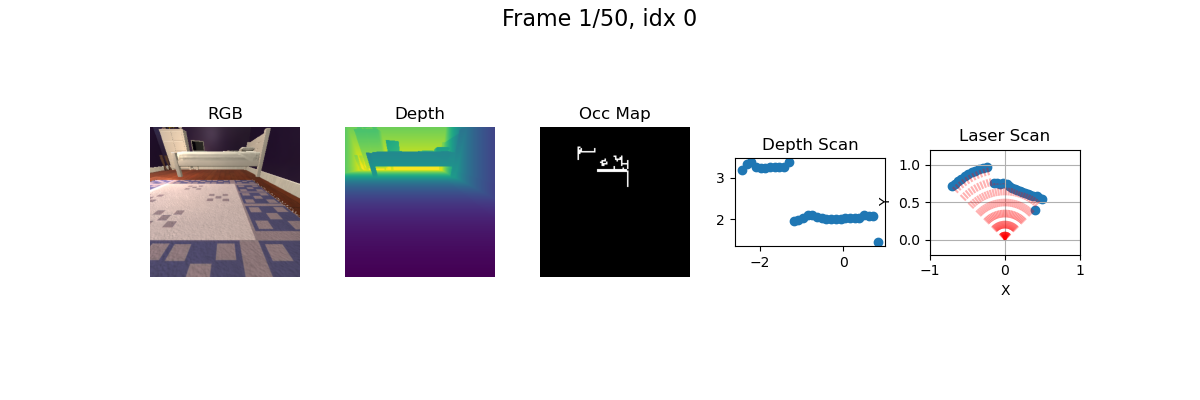
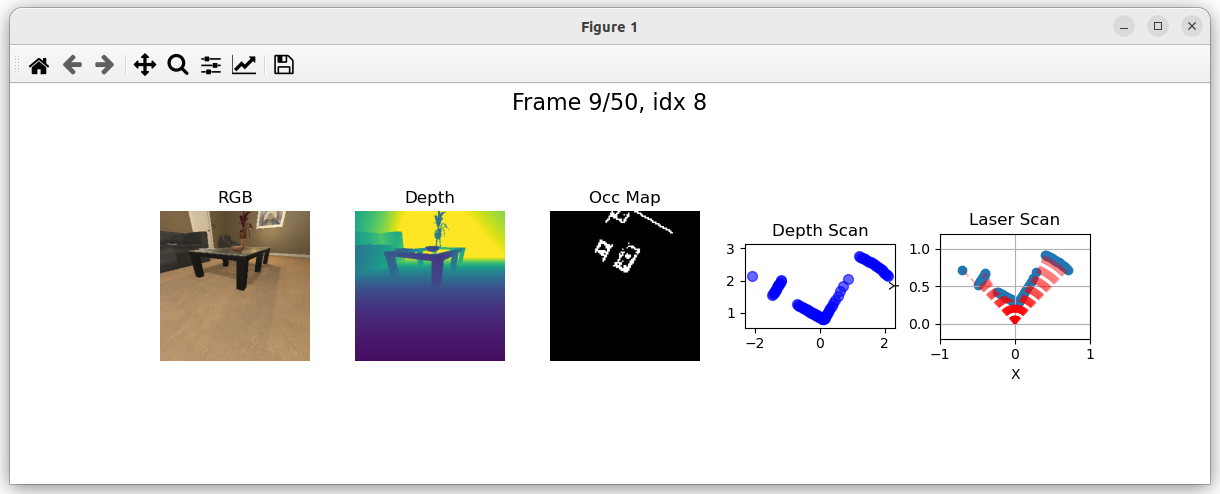
dev: add depth_layer_scan_api

diff --git a/depth_transform.py b/depth_transform.py
@@ -35,7 +35,7 @@ class Config:
         self.laserscan_cfg = laserscan_cfg or {
             "aggregation": 'mean',  # 'mean', 'max', 'min', 'all'
             "n_intervals": 30,  # 深度扫描的区间数
-            "default_value": 10,  # 空区间的默认值
+            "default_value": 3,  # 空区间的默认值
         }
 
     @classmethod
@@ -226,8 +226,11 @@ def depth_to_filted_pointcloud(depth,
     
     return pts, color
 
-def map_array_to_intervals(arr_key, arr_val, min_val, max_val, n_intervals, 
-                                  default_value=100, aggregation='min'):
+def map_pts_to_intervals(pts, 
+                         fov_deg=[90.0, 90.0],
+                         n_intervals=30, 
+                         default_value=3.0, 
+                         aggregation='min'):
     """
     高级版本：支持多种聚合方法
     
@@ -237,52 +240,96 @@ def map_array_to_intervals(arr_key, arr_val, min_val, max_val, n_intervals,
         聚合方法: 'first', 'last', 'mean', 'median', 'sum', 'count', 'all', 'min'
     """
     
-    boundaries = np.linspace(min_val, max_val, n_intervals + 1)
-    result_values = []
-    intervals = []
     
+
+    # x = pts[:, 0][pts[:, 0] < 0]  # 只考虑X<0的点
+    # y = pts[:, 2][pts[:, 0] < 0]  # 对应的Y值
+    # angles = np.atan2(np.abs(y), x)  # 计算每个点的角度
+    # print("y:", y)
+    # print("x:", x)
+    # print("angles x<0:", angles)
+    # print("max_angle:", np.rad2deg(np.max(angles)), "min_angle:", np.rad2deg(np.min(angles)))
+    # x = pts[:, 0][pts[:, 0] > 0]  # 只考虑X<0的点
+    # y = pts[:, 2][pts[:, 0] > 0]  # 对应的Y值
+    # angles = np.atan2(np.abs(y), x)  # 计算每个点的角度
+    # print("y:", y)
+    # print("x:", x)
+    # print("angles x>0:", angles)
+    # print("max_angle:", np.rad2deg(np.max(angles)), "min_angle:", np.rad2deg(np.min(angles)))
+    angle = np.atan2(np.abs(pts[:, 2]), pts[:, 0])  # 计算每个点的角度，弧度
+    angle_boundaries = np.linspace(np.deg2rad(fov_deg[0] / 2), np.deg2rad(fov_deg[0]*1.5), n_intervals + 1)
+    angle_intervals, dist_intervals = [], []
     for i in range(n_intervals):
-        start = boundaries[i]
-        end = boundaries[i + 1]
-        intervals.append((start, end))
-        
+        start = angle_boundaries[i]
+        end = angle_boundaries[i + 1]
+        angle_intervals.append([start, end])
         if i == n_intervals - 1:
-            mask = (arr_key >= start) & (arr_key <= end)
+            mask = (angle >= start) & (angle <= end)
         else:
-            mask = (arr_key >= start) & (arr_key < end)
-        
-        values_in_interval = arr_val[mask]
-        
-        if len(values_in_interval) > 0:
-            if aggregation == 'first':
-                result_values.append(values_in_interval[0])
-            elif aggregation == 'last':
-                result_values.append(values_in_interval[-1])
+            mask = (angle >= start) & (angle < end)
+        pts_in_interval = pts[mask]
+        if len(pts_in_interval) > 0:
+            if aggregation == 'min':
+                dist_intervals.append(np.min(np.sqrt(pts_in_interval[:, 0]**2 + pts_in_interval[:, 2]**2)))
+            elif aggregation == 'max':
+                dist_intervals.append(np.max(np.sqrt(pts_in_interval[:, 0]**2 + pts_in_interval[:, 2]**2)))
             elif aggregation == 'mean':
-                result_values.append(np.mean(values_in_interval))
-            elif aggregation == 'median':
-                result_values.append(np.median(values_in_interval))
-            elif aggregation == 'sum':
-                result_values.append(np.sum(values_in_interval))
-            elif aggregation == 'count':
-                result_values.append(len(values_in_interval))
-            elif aggregation == 'all':
-                result_values.append(values_in_interval.tolist())
-            elif aggregation == 'min':
-                print(f"Using min aggregation for interval {i}: {start} to {end}")
-                result_values.append(np.min(values_in_interval))
+                dist_intervals.append(np.mean(np.sqrt(pts_in_interval[:, 0]**2 + pts_in_interval[:, 2]**2)))
             else:
                 raise ValueError(f"Unsupported aggregation method: {aggregation}")
         else:
-            if aggregation == 'all':
-                result_values.append([])
-            else:
-                result_values.append(default_value)
+            dist_intervals.append(default_value)
+    return np.array(angle_intervals), np.array(dist_intervals)
     
-    if aggregation == 'all':
-        return intervals, result_values
-    else:
-        return intervals, np.array(result_values)
+    
+    # min_x = np.min(pts[:, 0])
+    # max_x = np.max(pts[:, 0])
+
+    # boundaries = np.linspace(min_x, max_x, n_intervals + 1)
+    # result_values = []
+    # intervals = []
+    # for i in range(n_intervals):
+    #     start = boundaries[i]
+    #     end = boundaries[i + 1]
+    #     intervals.append((start, end))
+        
+    #     if i == n_intervals - 1:
+    #         mask = (pts[:, 0] >= start) & (pts[:, 0] <= end)
+    #     else:
+    #         mask = (pts[:, 0] >= start) & (pts[:, 0] < end)
+        
+    #     values_in_interval = pts[:, 2][mask]
+        
+    #     if len(values_in_interval) > 0:
+    #         if aggregation == 'first':
+    #             result_values.append(values_in_interval[0])
+    #         elif aggregation == 'last':
+    #             result_values.append(values_in_interval[-1])
+    #         elif aggregation == 'mean':
+    #             result_values.append(np.mean(values_in_interval))
+    #         elif aggregation == 'median':
+    #             result_values.append(np.median(values_in_interval))
+    #         elif aggregation == 'sum':
+    #             result_values.append(np.sum(values_in_interval))
+    #         elif aggregation == 'count':
+    #             result_values.append(len(values_in_interval))
+    #         elif aggregation == 'all':
+    #             result_values.append(values_in_interval.tolist())
+    #         elif aggregation == 'min':
+    #             print(f"Using min aggregation for interval {i}: {start} to {end}")
+    #             result_values.append(np.min(values_in_interval))
+    #         else:
+    #             raise ValueError(f"Unsupported aggregation method: {aggregation}")
+    #     else:
+    #         if aggregation == 'all':
+    #             result_values.append([])
+    #         else:
+    #             result_values.append(default_value)
+    
+    # if aggregation == 'all':
+    #     return intervals, result_values
+    # else:
+    #     return intervals, np.array(result_values)
 
 def depth_layer_scan(depth,
                     rgb=None,
@@ -297,31 +344,39 @@ def depth_layer_scan(depth,
                                         cfg=cfg)
     if pts.shape[0] == 0: # 过滤后点云为空，则直接返回None
         return None, None
-    min_x = np.min(pts[:, 0])
-    max_x = np.max(pts[:, 0])
+    # min_x = np.min(pts[:, 0])
+    # max_x = np.max(pts[:, 0])
     # print(f"Depth scan range: X [{min_x:.2f}, {max_x:.2f}]")
     # min_y = np.min(pts[:, 1])
     # max_y = np.max(pts[:, 1])
     # print(f"Depth scan range: Y [{min_y:.2f}, {max_y:.2f}]")
-    intervals, y_corrd = map_array_to_intervals(
-                            arr_key=pts[:, 0], 
-                            arr_val=pts[:, 2], 
-                            min_val=min_x, 
-                            max_val=max_x, 
-                            n_intervals=cfg.laserscan_cfg['n_intervals'], 
-                            default_value=cfg.laserscan_cfg['default_value'], 
+    # intervals, y_coord = map_pts_to_intervals(
+    #                         pts,
+    #                         fov_deg=cfg.sensor_cfg['fov_deg'],
+    #                         n_intervals=cfg.laserscan_cfg['n_intervals'], 
+    #                         default_value=cfg.laserscan_cfg['default_value'], 
+    #                         aggregation=cfg.laserscan_cfg['aggregation']
+    #                     )
+    # start = np.array([interval[0] for interval in intervals])
+    # end = np.array([interval[1] for interval in intervals])
+    # x_coord = (start + end) / 2.0  # 中心点
+    # y_coord = np.abs(y_coord)  # 取绝对值
+    # return x_coord, y_coord, _, _
+    angles_intervals, dist = map_pts_to_intervals(
+                            pts,    
+                            fov_deg=cfg.sensor_cfg['fov_deg'],
+                            n_intervals=cfg.laserscan_cfg['n_intervals'],
+                            default_value=cfg.laserscan_cfg['default_value'],
                             aggregation=cfg.laserscan_cfg['aggregation']
                         )
-    start = np.array([interval[0] for interval in intervals])
-    end = np.array([interval[1] for interval in intervals])
-    x_coord = (start + end) / 2.0  # 中心点
+    angles = (angles_intervals[:, 0] + angles_intervals[:, 1]) / 2.0
+    dist[dist > cfg.laserscan_cfg['default_value']] = cfg.laserscan_cfg['default_value']  # 限制最大距离
+    x_coord = dist * np.cos(angles)  # X坐标
+    y_coord = dist * np.sin(angles)  # Y坐标
     # print(f"x_coord: {x_coord}")
-    y_corrd = np.abs(y_corrd)
-    # y_corrd[y_corrd > cfg.laserscan_cfg['default_value']] = cfg.laserscan_cfg['default_value']  
-    # print(f"Depth scan intervals: {intervals}")
-    # print(f"Depth scan values: {dists}")
-
-    return x_coord, y_corrd
+    # print(f"y_coord: {y_coord}")
+    return x_coord, y_coord, angles, dist
+    
 
 def depth_layer_scan_api(depth,
                          rgb=None,
@@ -330,7 +385,7 @@ def depth_layer_scan_api(depth,
                          dist_scale=1.0,
                          rotate_points=[['x', -30]],
                          filter_points=[['y', -0.25, 0.25]],
-                         aggregation='mean',
+                         aggregation='min',
                          n_intervals=30,
                          default_value=3.0):
     """ 深度图投影到激光扫描 - API接口
@@ -339,26 +394,24 @@ def depth_layer_scan_api(depth,
         rgb: HxWx3 RGB图像 (可选)
         height: 相机高度，用于地面过滤 (可选)
         n_intervals: 深度扫描的区间数 (默认 30)
-        default_value: 空区间的默认值 (默认 10) 
+        default_value: 空区间的默认值 (默认 3) 
     returns:
         angles: 激光扫描角度 (n_intervals,) ndarray
         dists: 激光扫描距离 (n_intervals,) ndarray
     """
-    angles = np.linspace(fov_deg[0]/2, -fov_deg[0]/2, n_intervals)
+    # angles = np.linspace(fov_deg[0]/2, -fov_deg[0]/2, n_intervals)
     cfg = Config(
         corrdinate_system='opengl',
         sensor_cfg={"fov_deg": fov_deg, "dist_scale": dist_scale},
         transform_cfg={"rotate_points": rotate_points, "filter_points": filter_points},
         laserscan_cfg={"aggregation": aggregation, "n_intervals": n_intervals, "default_value": default_value}
     )
-    x, y = depth_layer_scan(depth, rgb=rgb, height=height, cfg=cfg)
+    x, y, angles, dist = depth_layer_scan(depth, rgb=rgb, height=height, cfg=cfg)
     if x is not None and y is not None:
-        dist = np.sqrt(x**2 + y**2)
-        dist[dist > default_value] = default_value  # 限制最大距离
         dist = dist / default_value # 归一化距离
     else: # 过滤点云为None，则直接返回最大距离
         dist = np.ones_like(angles)
-    return angles, dist
+    return np.rad2deg(angles), dist
 
 
 
@@ -600,8 +653,8 @@ def plot_laser_scan(ax, angles, dists):
     ax.set_xlabel("X")
     ax.set_ylabel("Y")
     ax.set_aspect('equal')
-    x = dists * np.cos(np.deg2rad(angles)+np.pi/2)
-    y = dists * np.sin(np.deg2rad(angles)+np.pi/2)
+    x = dists * np.cos(np.deg2rad(angles))
+    y = dists * np.sin(np.deg2rad(angles))
     ax.scatter(x, y, marker='o')
     for i in range(len(angles)):
         ax.plot([0, x[i]], [0, y[i]], 'r--', alpha=0.3)
@@ -643,7 +696,7 @@ def plot_data_frame(rgb, depth, height=None, cfg: Config=Config()):
     img_occ = axes[2].imshow(occ_map, cmap="gray", origin="lower")
     axes[2].set_title("Occ Map")
     
-    x, y = depth_layer_scan(depth[idx[0]], 
+    x, y, _, _ = depth_layer_scan(depth[idx[0]], 
                                   rgb=rgb[idx[0]], 
                                   height=height[idx[0]] if height is not None else None,
                                   cfg=cfg)
@@ -651,7 +704,6 @@ def plot_data_frame(rgb, depth, height=None, cfg: Config=Config()):
     axes[3].set_aspect('equal')
     global scatter 
     scatter = axes[3].scatter(x, y, marker='o')
-   
     axes[3].set_title("Depth Scan")
 
     angles, dists = depth_layer_scan_api(depth[idx[0]], 
@@ -683,7 +735,7 @@ def plot_data_frame(rgb, depth, height=None, cfg: Config=Config()):
         _, _, occ_map = depth_layer_proj(depth[idx[0]], rgb[idx[0]], cfg=cfg)
         img_occ.set_data(occ_map)
 
-        x, y = depth_layer_scan(depth[idx[0]], rgb=rgb[idx[0]], height=height[idx[0]] if height is not None else None, cfg=cfg)
+        x, y, _, _ = depth_layer_scan(depth[idx[0]], rgb=rgb[idx[0]], height=height[idx[0]] if height is not None else None, cfg=cfg)
         global scatter
         scatter.remove()
         # 创建新的散点图

diff --git a/README.md b/README.md
@@ -1,5 +1,5 @@
 # depth_transform
-A Script for transform from RGBD or Depth to Point Cloud, Occupancy Map
+The script for transform from RGB-D or Depth to Point Cloud, Occupancy Map, 2D Laser, which is convinient for using in single line code.
 
 # Usage
 Here are two apis which are convinient for using in sigle line code:
@@ -12,7 +12,7 @@ def depth_layer_scan_api(depth,
                          dist_scale=1.0,
                          rotate_points=[['x', -30]],
                          filter_points=[['y', -0.25, 0.25]],
-                         aggregation='mean',
+                         aggregation='min',
                          n_intervals=30,
                          default_value=3.0):
     """ 深度图投影到激光扫描 - API接口
@@ -21,22 +21,24 @@ def depth_layer_scan_api(depth,
         rgb: HxWx3 RGB图像 (可选)
         height: 相机高度，用于地面过滤 (可选)
         n_intervals: 深度扫描的区间数 (默认 30)
-        default_value: 空区间的默认值 (默认 10) 
+        default_value: 空区间的默认值 (默认 3) 
     returns:
         angles: 激光扫描角度 (n_intervals,) ndarray
         dists: 激光扫描距离 (n_intervals,) ndarray
     """
-    angles = np.linspace(-fov_deg[0]/2, fov_deg[0]/2, n_intervals)
+    # angles = np.linspace(fov_deg[0]/2, -fov_deg[0]/2, n_intervals)
     cfg = Config(
         corrdinate_system='opengl',
         sensor_cfg={"fov_deg": fov_deg, "dist_scale": dist_scale},
         transform_cfg={"rotate_points": rotate_points, "filter_points": filter_points},
         laserscan_cfg={"aggregation": aggregation, "n_intervals": n_intervals, "default_value": default_value}
     )
-    x, y = depth_layer_scan(depth, rgb=rgb, height=height, cfg=cfg)
-    dist = np.sqrt(x**2 + y**2)
-    dist[dist > default_value] = default_value  # 限制最大距离
-    return angles, dist / default_value  # 归一化距离
+    x, y, angles, dist = depth_layer_scan(depth, rgb=rgb, height=height, cfg=cfg)
+    if x is not None and y is not None:
+        dist = dist / default_value # 归一化距离
+    else: # 过滤点云为None，则直接返回最大距离
+        dist = np.ones_like(angles)
+    return np.rad2deg(angles), dist
 ```
 * depth_to_occ_map:
 ```
@@ -98,12 +100,13 @@ Here are also two visual tools which will help you a lot:
   input same as above
 
 Open the shell or cmd and use below two commands to have a visual of input and ouput:
-* ``` python .\depth_transform.py --cfg ./depth_transform.yaml --data /path/to/data --mode plot```\
+* ``` python .\depth_transform.py --cfg ./depth_transform.yaml --data /path/to/data --mode plot```
   * You can use <-, -> to change frame\
-![plot](./assets/plot.png)\
-* ``` python .\depth_transform.py --cfg ./depth_transform.yaml --data /path/to/data --mode viewer```\
+![plot](./assets/plot.png)
+![plot](./assets/plot_1.png)
+* ``` python .\depth_transform.py --cfg ./depth_transform.yaml --data /path/to/data --mode viewer```
   * You can change frame through silder of Frame on the left side bar\
-![viewer](./assets/viewer.png)\
+![viewer](./assets/viewer.png)
 
 If there is the error like this:\
 '''libGL error: MESA-LOADER: failed to open swrast: /usr/lib/dri/swrast_dri.so: 无法打开共享目标文件: 没有那个文件或目录 (search paths /usr/lib/x86_64-linux-gnu/dri:\$${ORIGIN}/dri:/usr/lib/dri, suffix _dri)\
